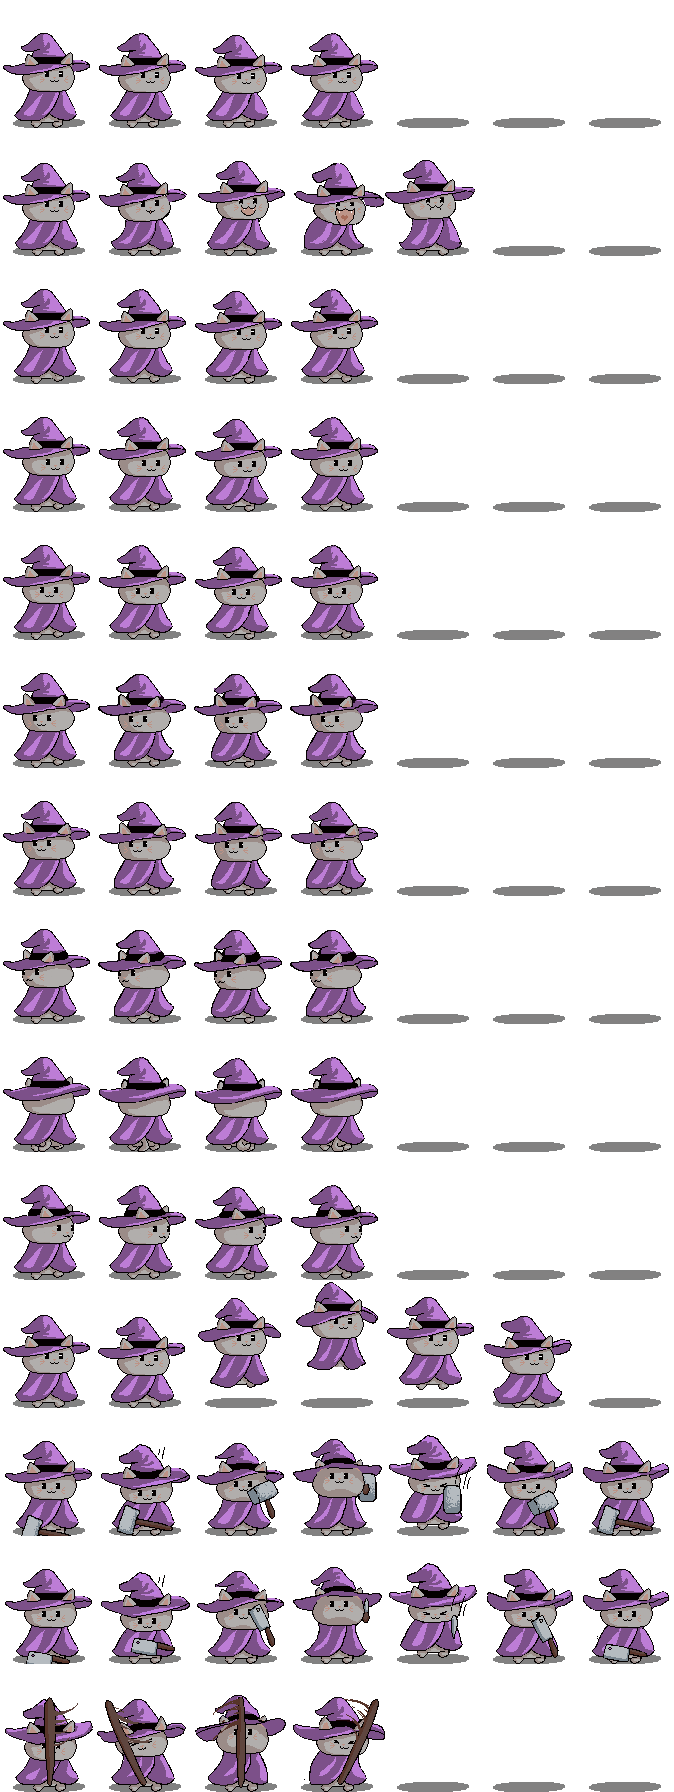
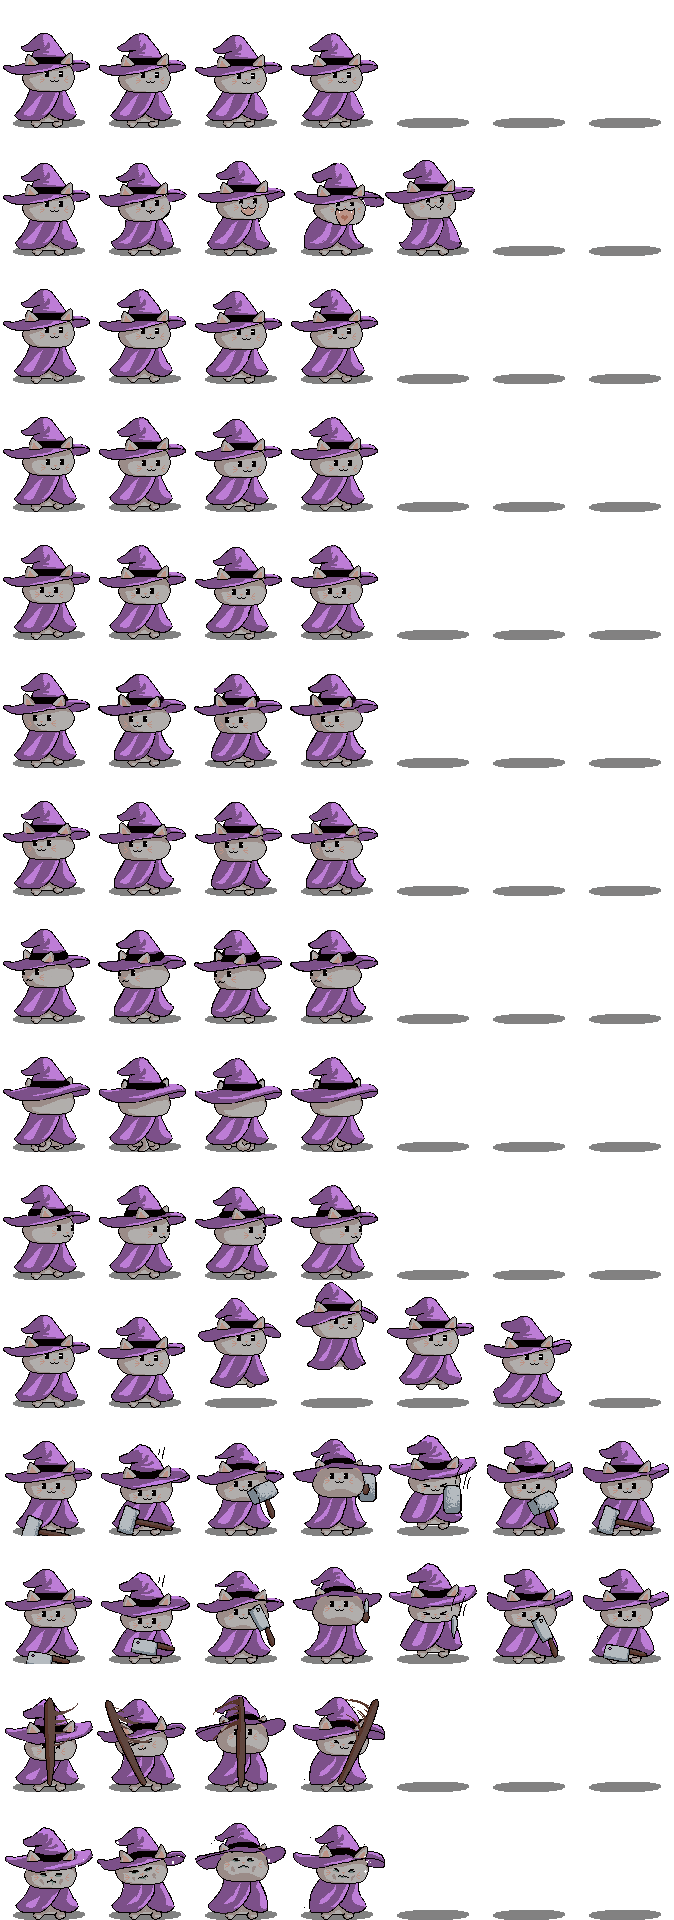
sick animation

diff --git a/scripting/Player.cpp b/scripting/Player.cpp
@@ -381,6 +381,7 @@ void Player::HandleAnimations()
 	
 	case State::Poisoned:
 		// TODO: Poisoned animation
+		playerSprite->SetLoopRegion(14, 4);
 		break;
 
 	default:
